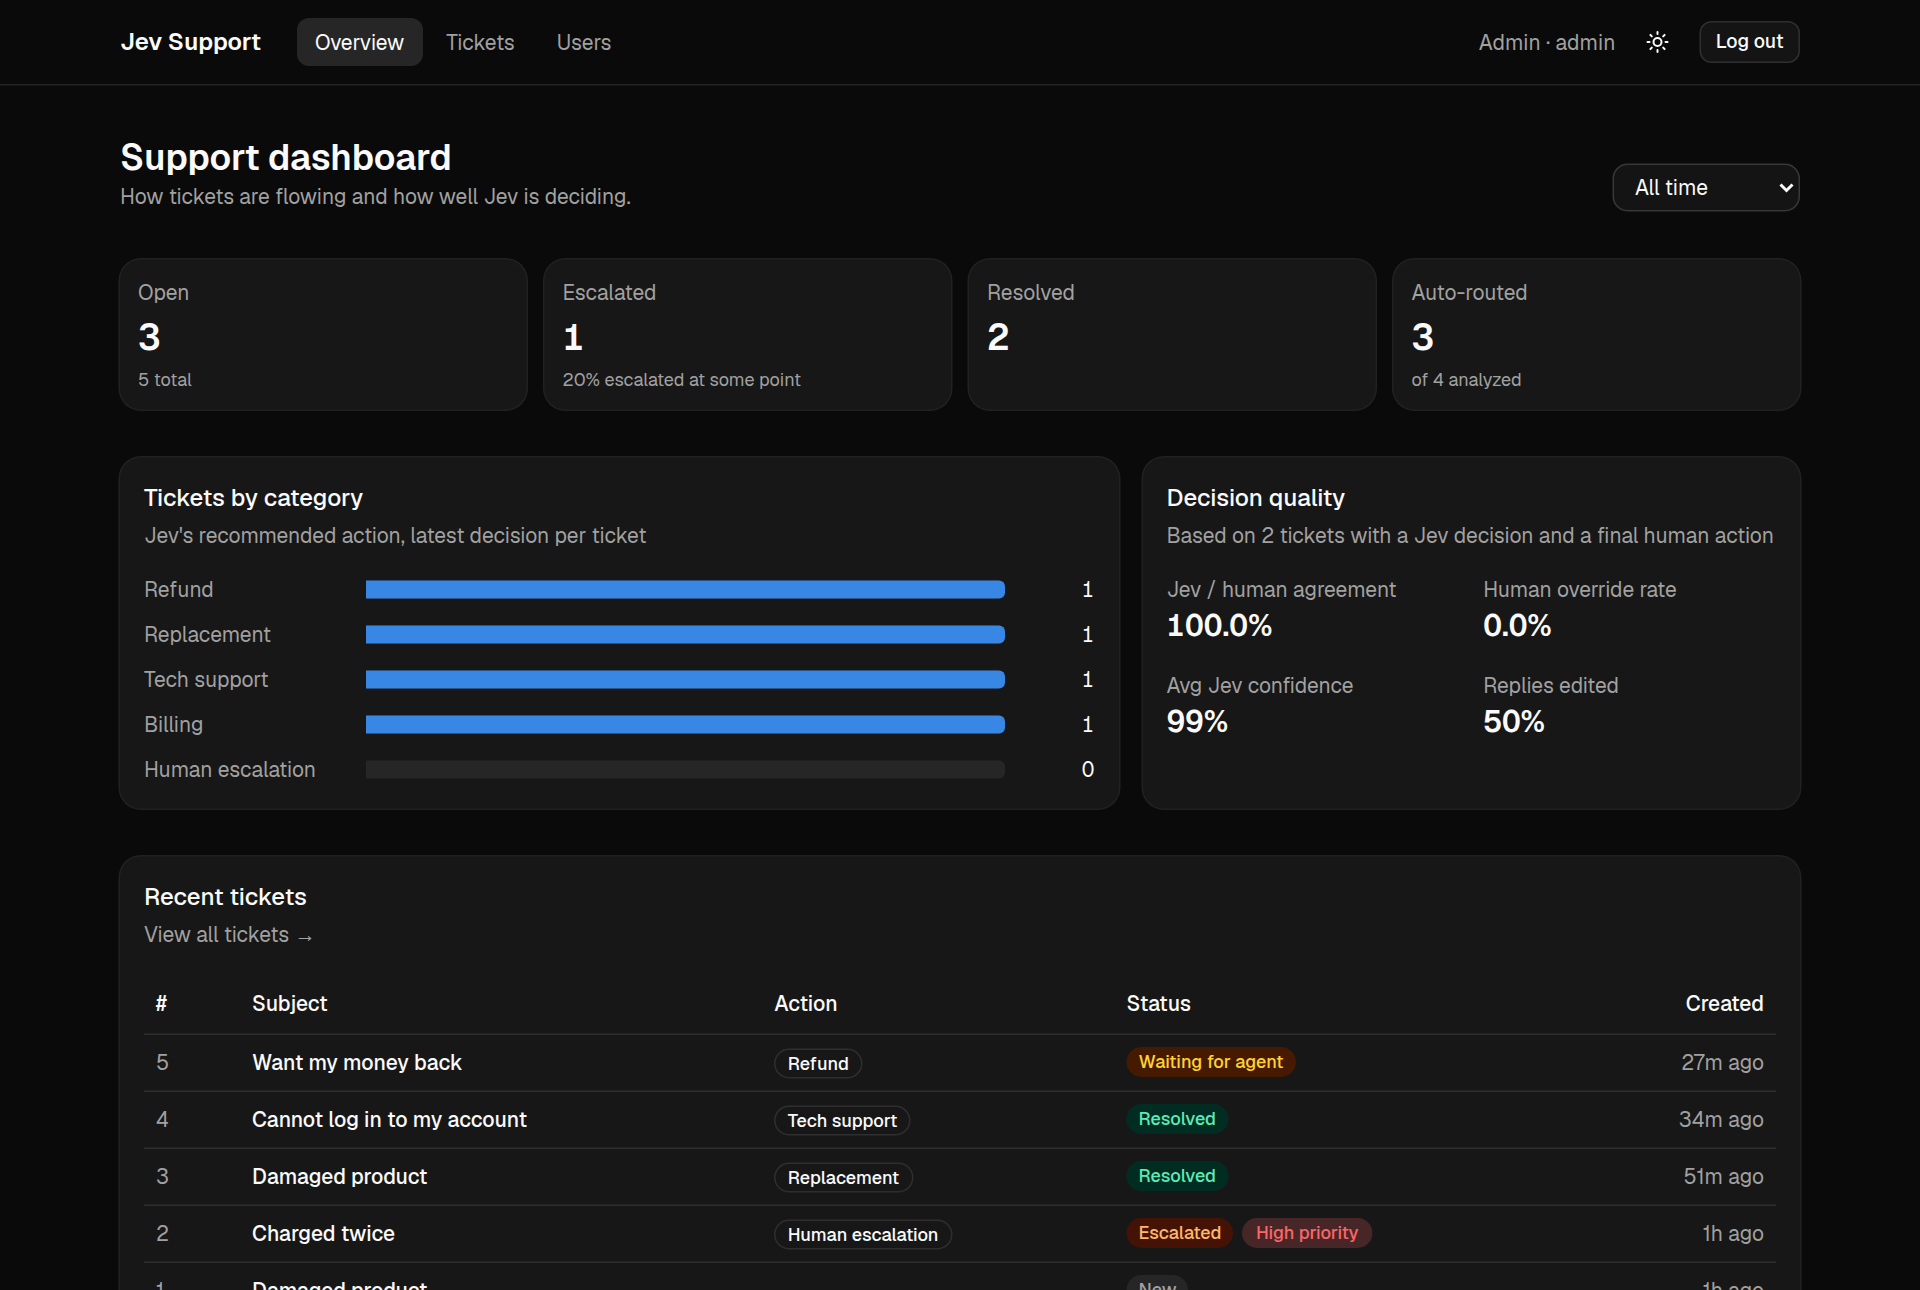
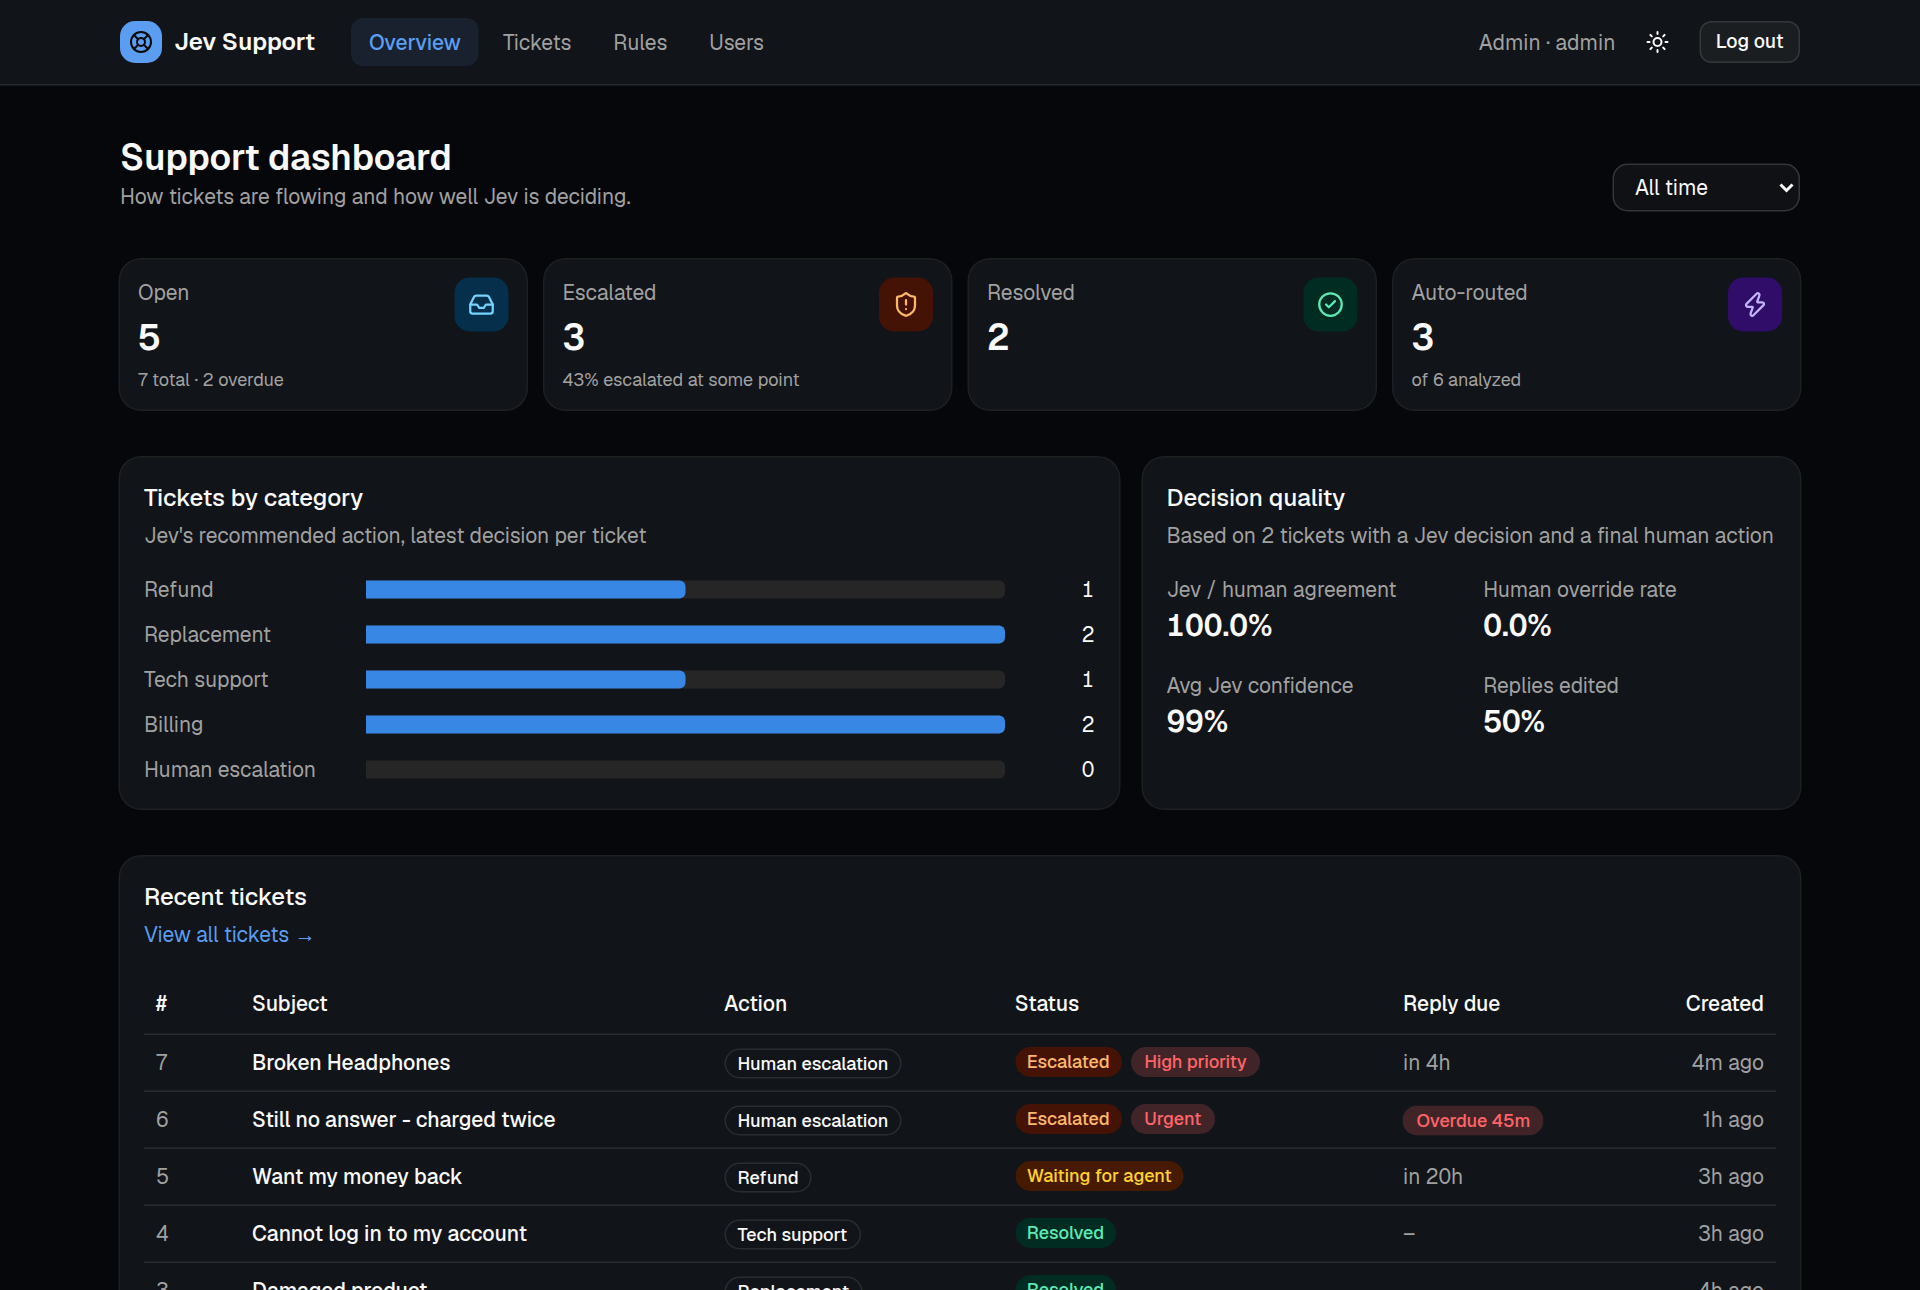
feat: add subtle brand color to the UI
- Brand blue (same hue as the charts) for primary buttons, the active
  nav tab and filter chip, links and focus rings. Contrast-checked:
  white on #2468c2 is 5.5:1 in light mode, ink on #5b9df0 is 7.1:1 in
  dark mode.
- Faintly tinted page background so white cards stand out; dark mode
  cards sit a step above the background with a slight cool tint.
- Logo mark in the header and on the public pages; white header bar;
  numbered steps on the landing page.
- Dashboard stat tiles get colored icons matching the status colors.
- Refreshed README screenshots.

diff --git a/frontend/app/globals.css b/frontend/app/globals.css
@@ -56,24 +56,24 @@
   --viz-accent: #2a78d6;
   --viz-muted: oklch(0.87 0 0);
   --viz-track: oklch(0.967 0 0);
-  --background: oklch(1 0 0);
+  --background: oklch(0.975 0.006 255);
   --foreground: oklch(0.145 0 0);
   --card: oklch(1 0 0);
   --card-foreground: oklch(0.145 0 0);
   --popover: oklch(1 0 0);
   --popover-foreground: oklch(0.145 0 0);
-  --primary: oklch(0.205 0 0);
+  --primary: #2468c2;
   --primary-foreground: oklch(0.985 0 0);
   --secondary: oklch(0.97 0 0);
   --secondary-foreground: oklch(0.205 0 0);
   --muted: oklch(0.97 0 0);
   --muted-foreground: oklch(0.556 0 0);
-  --accent: oklch(0.97 0 0);
-  --accent-foreground: oklch(0.205 0 0);
+  --accent: oklch(0.95 0.02 255);
+  --accent-foreground: #1f5fb4;
   --destructive: oklch(0.577 0.245 27.325);
   --border: oklch(0.922 0 0);
   --input: oklch(0.922 0 0);
-  --ring: oklch(0.708 0 0);
+  --ring: #2468c2;
   --chart-1: oklch(0.87 0 0);
   --chart-2: oklch(0.556 0 0);
   --chart-3: oklch(0.439 0 0);
@@ -82,7 +82,7 @@
   --radius: 0.625rem;
   --sidebar: oklch(0.985 0 0);
   --sidebar-foreground: oklch(0.145 0 0);
-  --sidebar-primary: oklch(0.205 0 0);
+  --sidebar-primary: #2468c2;
   --sidebar-primary-foreground: oklch(0.985 0 0);
   --sidebar-accent: oklch(0.97 0 0);
   --sidebar-accent-foreground: oklch(0.205 0 0);
@@ -94,24 +94,24 @@
   --viz-accent: #3987e5;
   --viz-muted: oklch(0.4 0 0);
   --viz-track: oklch(0.27 0 0);
-  --background: oklch(0.145 0 0);
+  --background: oklch(0.13 0.008 260);
   --foreground: oklch(0.985 0 0);
-  --card: oklch(0.205 0 0);
+  --card: oklch(0.19 0.01 260);
   --card-foreground: oklch(0.985 0 0);
-  --popover: oklch(0.205 0 0);
+  --popover: oklch(0.19 0.01 260);
   --popover-foreground: oklch(0.985 0 0);
-  --primary: oklch(0.922 0 0);
-  --primary-foreground: oklch(0.205 0 0);
-  --secondary: oklch(0.269 0 0);
+  --primary: #5b9df0;
+  --primary-foreground: oklch(0.145 0 0);
+  --secondary: oklch(0.25 0.008 260);
   --secondary-foreground: oklch(0.985 0 0);
-  --muted: oklch(0.269 0 0);
+  --muted: oklch(0.25 0.008 260);
   --muted-foreground: oklch(0.708 0 0);
-  --accent: oklch(0.269 0 0);
-  --accent-foreground: oklch(0.985 0 0);
+  --accent: oklch(0.27 0.03 260);
+  --accent-foreground: #8fbcf5;
   --destructive: oklch(0.704 0.191 22.216);
   --border: oklch(1 0 0 / 10%);
   --input: oklch(1 0 0 / 15%);
-  --ring: oklch(0.556 0 0);
+  --ring: #5b9df0;
   --chart-1: oklch(0.87 0 0);
   --chart-2: oklch(0.556 0 0);
   --chart-3: oklch(0.439 0 0);

diff --git a/frontend/components/app/stat-tile.tsx b/frontend/components/app/stat-tile.tsx
@@ -1,12 +1,41 @@
 import { Card, CardContent } from "@/components/ui/card";
+import { cn } from "@/lib/utils";
 
-export function StatTile({ label, value, hint }: { label: string; value: string | number; hint?: string }) {
+export type TileTone = "blue" | "orange" | "green" | "violet";
+
+const TONES: Record<TileTone, string> = {
+  blue: "bg-sky-100 text-sky-700 dark:bg-sky-950 dark:text-sky-300",
+  orange: "bg-orange-100 text-orange-700 dark:bg-orange-950 dark:text-orange-300",
+  green: "bg-emerald-100 text-emerald-700 dark:bg-emerald-950 dark:text-emerald-300",
+  violet: "bg-violet-100 text-violet-700 dark:bg-violet-950 dark:text-violet-300",
+};
+
+export function StatTile({
+  label,
+  value,
+  hint,
+  icon: Icon,
+  tone = "blue",
+}: {
+  label: string;
+  value: string | number;
+  hint?: string;
+  icon?: React.ComponentType<{ className?: string }>;
+  tone?: TileTone;
+}) {
   return (
     <Card size="sm">
-      <CardContent className="space-y-1">
-        <p className="text-sm text-muted-foreground">{label}</p>
-        <p className="text-2xl font-semibold tabular-nums">{value}</p>
-        {hint && <p className="text-xs text-muted-foreground">{hint}</p>}
+      <CardContent className="flex items-start justify-between gap-3">
+        <div className="space-y-1">
+          <p className="text-sm text-muted-foreground">{label}</p>
+          <p className="text-2xl font-semibold tabular-nums">{value}</p>
+          {hint && <p className="text-xs text-muted-foreground">{hint}</p>}
+        </div>
+        {Icon && (
+          <span className={cn("flex size-9 shrink-0 items-center justify-center rounded-lg", TONES[tone])} aria-hidden>
+            <Icon className="size-4.5" />
+          </span>
+        )}
       </CardContent>
     </Card>
   );

diff --git a/frontend/app/dashboard/page.tsx b/frontend/app/dashboard/page.tsx
@@ -1,5 +1,6 @@
 "use client";
 
+import { CheckCircle2Icon, InboxIcon, ShieldAlertIcon, ZapIcon } from "lucide-react";
 import Link from "next/link";
 import { useState } from "react";
 
@@ -60,17 +61,23 @@ export default function DashboardPage() {
         <>
           <section className="grid grid-cols-2 gap-3 lg:grid-cols-4" aria-label="Ticket counts">
             <StatTile
+              icon={InboxIcon}
+              tone="blue"
               label="Open"
               value={stats.tickets.open}
               hint={`${stats.tickets.total} total${stats.tickets.overdue ? ` · ${stats.tickets.overdue} overdue` : ""}`}
             />
             <StatTile
+              icon={ShieldAlertIcon}
+              tone="orange"
               label="Escalated"
               value={stats.tickets.escalated}
               hint={`${percent(stats.escalation_rate)} escalated at some point`}
             />
-            <StatTile label="Resolved" value={stats.tickets.resolved} />
+            <StatTile icon={CheckCircle2Icon} tone="green" label="Resolved" value={stats.tickets.resolved} />
             <StatTile
+              icon={ZapIcon}
+              tone="violet"
               label="Auto-routed"
               value={stats.tickets.auto_routed}
               hint={`of ${stats.tickets.analyzed} analyzed${
@@ -126,7 +133,7 @@ export default function DashboardPage() {
         <CardHeader>
           <CardTitle>Recent tickets</CardTitle>
           <CardDescription>
-            <Link href="/dashboard/tickets" className="hover:underline">
+            <Link href="/dashboard/tickets" className="text-primary hover:underline">
               View all tickets →
             </Link>
           </CardDescription>

diff --git a/frontend/app/page.tsx b/frontend/app/page.tsx
@@ -1,5 +1,6 @@
 import Link from "next/link";
 
+import { Logo } from "@/components/app/logo";
 import { ThemeToggle } from "@/components/app/theme-toggle";
 import { buttonVariants } from "@/components/ui/button";
 import { cn } from "@/lib/utils";
@@ -16,7 +17,9 @@ export default function Home() {
     <main className="mx-auto flex w-full max-w-3xl flex-1 flex-col justify-center gap-10 px-4 py-16">
       <ThemeToggle className="fixed top-3 right-3" />
       <div className="space-y-4">
-        <h1 className="text-4xl font-semibold tracking-tight">Jev Support</h1>
+        <h1 className="text-4xl tracking-tight">
+          <Logo size="lg" />
+        </h1>
         <p className="text-lg text-muted-foreground">
           Customer support where AI does the routing and drafting, and people stay in control.
         </p>
@@ -31,8 +34,10 @@ export default function Home() {
       </div>
       <ol className="grid gap-4 sm:grid-cols-2">
         {STEPS.map(([title, text], i) => (
-          <li key={title} className="rounded-xl border p-4">
-            <p className="text-sm text-muted-foreground">Step {i + 1}</p>
+          <li key={title} className="rounded-xl border bg-card p-4">
+            <p className="mb-2 flex size-7 items-center justify-center rounded-full bg-primary/10 text-sm font-semibold text-primary">
+              {i + 1}
+            </p>
             <p className="font-medium">{title}</p>
             <p className="text-sm text-muted-foreground">{text}</p>
           </li>

diff --git a/frontend/app/dashboard/layout.tsx b/frontend/app/dashboard/layout.tsx
@@ -4,6 +4,7 @@ import Link from "next/link";
 import { usePathname, useRouter } from "next/navigation";
 import { useEffect } from "react";
 
+import { Logo } from "@/components/app/logo";
 import { ThemeToggle } from "@/components/app/theme-toggle";
 import { Button } from "@/components/ui/button";
 import { useAuth } from "@/lib/auth";
@@ -31,10 +32,10 @@ export default function DashboardLayout({ children }: LayoutProps<"/dashboard">)
 
   return (
     <div className="flex flex-1 flex-col">
-      <header className="border-b">
+      <header className="border-b bg-card">
         <div className="mx-auto flex h-14 w-full max-w-6xl items-center gap-6 px-4">
-          <Link href="/dashboard" className="font-semibold">
-            Jev Support
+          <Link href="/dashboard">
+            <Logo />
           </Link>
           <nav className="flex gap-1">
             {NAV.filter((item) => !item.adminOnly || user.role === "ADMIN").map(({ href, label }) => {
@@ -45,7 +46,7 @@ export default function DashboardLayout({ children }: LayoutProps<"/dashboard">)
                   href={href}
                   className={cn(
                     "rounded-md px-3 py-1.5 text-sm text-muted-foreground hover:text-foreground",
-                    active && "bg-muted text-foreground",
+                    active && "bg-primary/10 font-medium text-primary hover:text-primary",
                   )}
                 >
                   {label}

diff --git a/frontend/app/login/page.tsx b/frontend/app/login/page.tsx
@@ -4,6 +4,7 @@ import Link from "next/link";
 import { useRouter } from "next/navigation";
 import { useEffect, useState } from "react";
 
+import { Logo } from "@/components/app/logo";
 import { ThemeToggle } from "@/components/app/theme-toggle";
 import { Alert, AlertDescription } from "@/components/ui/alert";
 import { Button } from "@/components/ui/button";
@@ -39,8 +40,8 @@ export default function LoginPage() {
   return (
     <main className="mx-auto flex w-full max-w-sm flex-1 flex-col justify-center px-4 py-12">
       <ThemeToggle className="fixed top-3 right-3" />
-      <Link href="/" className="text-sm text-muted-foreground hover:underline">
-        ← Jev Support
+      <Link href="/" className="self-start hover:opacity-80">
+        <Logo />
       </Link>
       <Card className="mt-4">
         <CardHeader>

diff --git a/frontend/app/support/page.tsx b/frontend/app/support/page.tsx
@@ -3,6 +3,7 @@
 import Link from "next/link";
 import { useState } from "react";
 
+import { Logo } from "@/components/app/logo";
 import { ThemeToggle } from "@/components/app/theme-toggle";
 import { Alert, AlertDescription, AlertTitle } from "@/components/ui/alert";
 import { Button } from "@/components/ui/button";
@@ -43,8 +44,8 @@ export default function SupportPage() {
   return (
     <main className="mx-auto w-full max-w-xl flex-1 px-4 py-12">
       <ThemeToggle className="fixed top-3 right-3" />
-      <Link href="/" className="text-sm text-muted-foreground hover:underline">
-        ← Jev Support
+      <Link href="/" className="self-start hover:opacity-80">
+        <Logo />
       </Link>
       <Card className="mt-4">
         <CardHeader>

diff --git a/frontend/components/app/logo.tsx b/frontend/components/app/logo.tsx
@@ -1,0 +1,20 @@
+import { LifeBuoyIcon } from "lucide-react";
+
+import { cn } from "@/lib/utils";
+
+/** Brand mark: a small blue tile with the product name. */
+export function Logo({ className, size = "sm" }: { className?: string; size?: "sm" | "lg" }) {
+  return (
+    <span className={cn("inline-flex items-center gap-2 font-semibold", className)}>
+      <span
+        className={cn(
+          "flex items-center justify-center rounded-lg bg-primary text-primary-foreground",
+          size === "lg" ? "size-10" : "size-7",
+        )}
+      >
+        <LifeBuoyIcon className={size === "lg" ? "size-5" : "size-4"} />
+      </span>
+      Jev Support
+    </span>
+  );
+}

diff --git a/frontend/app/dashboard/tickets/page.tsx b/frontend/app/dashboard/tickets/page.tsx
@@ -96,7 +96,7 @@ export default function TicketsPage() {
             }}
             className={cn(
               "rounded-full border px-3 py-1 text-sm text-muted-foreground hover:text-foreground",
-              status === value && "border-foreground bg-foreground text-background hover:text-background",
+              status === value && "border-primary bg-primary text-primary-foreground hover:text-primary-foreground",
             )}
           >
             {value ? STATUS_LABELS[value] : "All"}
